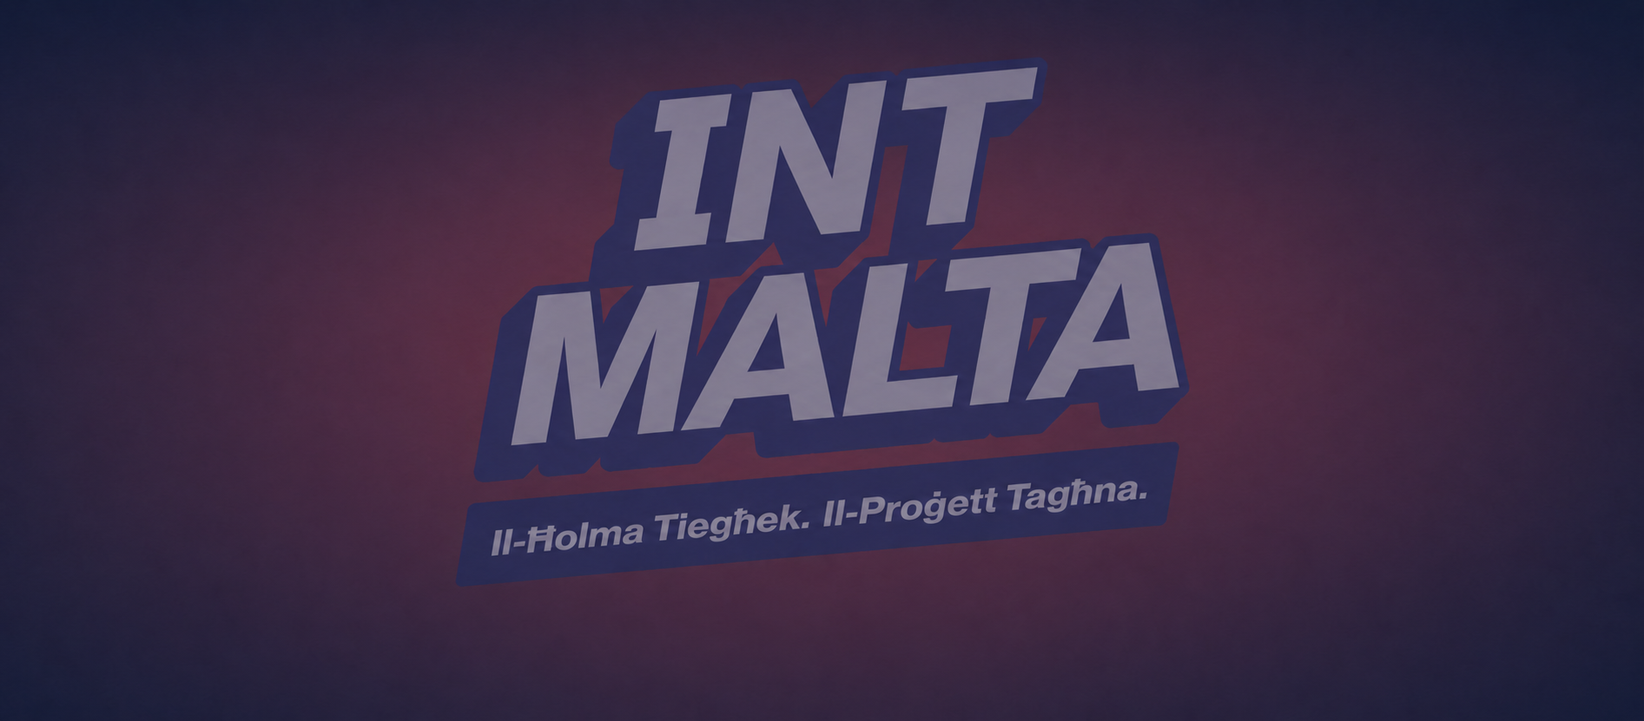
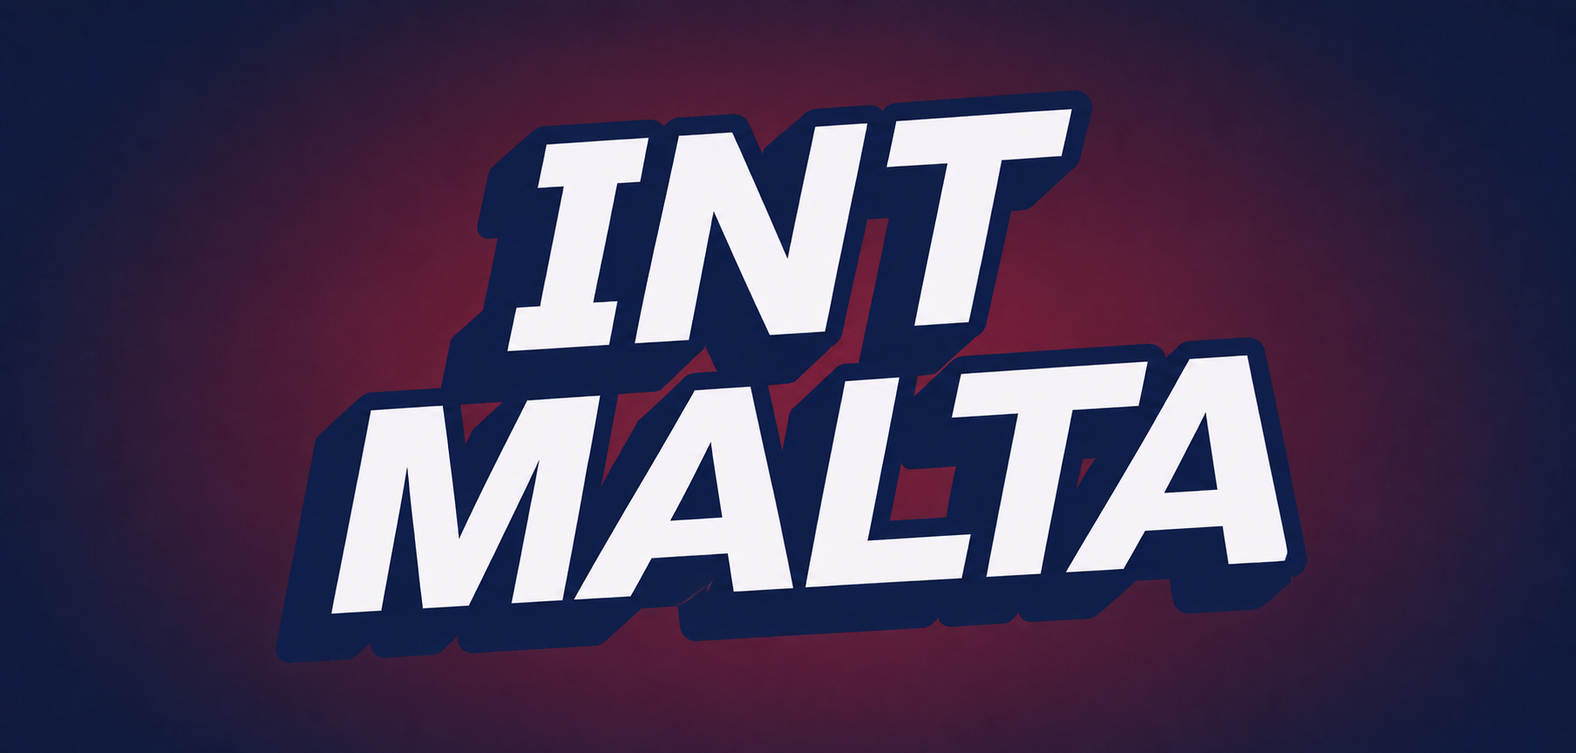
Add files via upload

diff --git a/index.html b/index.html
@@ -3,6 +3,9 @@
 <head>
 <meta charset="utf-8">
 <meta name="viewport" content="width=device-width,initial-scale=1,viewport-fit=cover">
+<meta http-equiv="Cache-Control" content="no-cache, no-store, must-revalidate">
+<meta http-equiv="Pragma" content="no-cache">
+<meta http-equiv="Expires" content="0">
 <meta name="theme-color" content="#0b2942">
 <meta name="apple-mobile-web-app-capable" content="yes">
 <meta name="apple-mobile-web-app-status-bar-style" content="black-translucent">
@@ -29,12 +32,13 @@ body.dark{--line:#29445b;--muted:#9fb3c5;--text:#e8f2fa;--shadow:0 14px 36px rgb
 .noReplacementOption{display:flex;align-items:center;gap:10px;text-transform:none;letter-spacing:0;font-size:14px;color:var(--text);padding:11px 12px;border:1px solid var(--line);border-radius:12px;background:#f6fafc;margin-top:10px}.noReplacementOption input{width:20px;height:20px;margin:0;flex:0 0 20px}.noReplacementHint{font-size:12px;color:var(--muted);line-height:1.35;margin-top:4px}body.dark .noReplacementOption{background:#0b263a}
 .adminSettingsBtn{width:44px;height:44px;padding:0;border:0;border-radius:15px;background:rgba(255,255,255,.14);color:white;box-shadow:none;font-size:20px}.statusGrid{display:grid;grid-template-columns:repeat(2,1fr);gap:8px}.statusCard{padding:11px;border:1px solid var(--line);border-radius:13px;background:#f6fafc}.statusCard b{display:block;font-size:16px;margin-top:3px}.previewList{max-height:360px;overflow:auto;border:1px solid var(--line);border-radius:14px;margin-top:10px}.previewRow{display:grid;grid-template-columns:92px 1fr;gap:8px;padding:10px;border-top:1px solid var(--line);font-size:12px;line-height:1.4}.previewRow:first-child{border-top:0}.verified{color:#207343;font-weight:900}.advancedBox{margin-top:12px}.advancedBox summary{font-weight:900;cursor:pointer}body.dark .statusCard{background:#0b263a}@media(max-width:520px){.statusGrid{grid-template-columns:1fr}.previewRow{grid-template-columns:82px 1fr}}
 .adminHeader{margin-bottom:8px}.adminTabs{display:flex;gap:6px;overflow-x:auto;padding:5px;margin:0 0 10px;background:rgba(234,244,251,.94);border:1px solid var(--line);border-radius:15px;scrollbar-width:none}.adminTabs::-webkit-scrollbar{display:none}.adminTabs button{flex:1 0 auto;min-width:88px;padding:10px 12px;box-shadow:none;border:0;background:transparent;color:var(--muted);white-space:nowrap}.adminTabs button.active{background:white;color:var(--blue);box-shadow:0 3px 10px rgba(15,45,74,.10)}.adminPane>.panel:first-child{margin-top:8px}.adminQuickGrid,.quickRanges{display:grid;grid-template-columns:repeat(2,1fr);gap:8px;margin-top:10px}.adminQuickGrid button,.quickRanges button{box-shadow:none}.quickRanges{grid-template-columns:repeat(3,1fr)}.adminSectionIntro{display:flex;align-items:flex-start;gap:11px;margin-bottom:12px}.adminSectionIcon{width:40px;height:40px;flex:0 0 40px;border-radius:12px;display:grid;place-items:center;background:#eaf2ff;color:var(--blue);font-size:20px}.adminSectionIntro h2{margin:0 0 3px}.adminSectionIntro p{margin:0}.adminSummary{margin:10px 0;background:#f6fafc}.adminSummary b{display:block;margin-bottom:3px}.adminMeta{display:flex;flex-wrap:wrap;gap:6px;margin-top:9px}.adminMeta span{padding:6px 9px;border-radius:999px;background:#eaf2ff;color:#0e5a99;font-size:12px;font-weight:850}.accountSummary{display:flex;justify-content:space-between;gap:10px;align-items:center;padding:10px 0;border-bottom:1px solid var(--line);margin-bottom:4px}.dataAction{display:grid;grid-template-columns:1fr 1fr;gap:8px}.fieldHelp{font-size:12px;color:var(--muted);line-height:1.4;margin:5px 0 9px}.currentTeam{display:flex;flex-wrap:wrap;gap:6px;margin-top:8px}.currentTeam span{background:#eef6ff;color:#0e5a99;border-radius:999px;padding:6px 9px;font-size:12px;font-weight:850}body.dark .adminTabs{background:rgba(7,23,37,.94)}body.dark .adminTabs button.active{background:#163d5b;color:#9fd1ff}body.dark .adminSectionIcon{background:#163d5b;color:#9fd1ff}body.dark .adminSummary{background:#0b263a}body.dark .adminMeta span,body.dark .currentTeam span{background:#163d5b;color:#9fd1ff}@media(max-width:520px){.adminQuickGrid,.dataAction{grid-template-columns:1fr}.quickRanges{grid-template-columns:repeat(3,minmax(0,1fr))}.quickRanges button{padding:10px 4px;font-size:12px}}
-header{isolation:isolate;overflow:hidden;padding:calc(12px + env(safe-area-inset-top)) 14px 13px;border-bottom-left-radius:22px;border-bottom-right-radius:22px;transition:padding .22s ease,border-radius .22s ease,box-shadow .22s ease}header::before{content:"";position:absolute;inset:0;z-index:-2;background:url('header-background.png') center 43%/cover no-repeat;opacity:.92}header::after{content:"";position:absolute;inset:0;z-index:-1;background:linear-gradient(90deg,rgba(4,18,31,.93) 0%,rgba(7,28,46,.72) 52%,rgba(26,12,35,.63) 100%)}.head{align-items:flex-start}.headerIdentity{min-width:0}.headerBrand{display:flex;align-items:center;gap:10px}.headerBrandMark{width:39px;height:39px;flex:0 0 39px;border-radius:12px;display:grid;place-items:center;background:linear-gradient(135deg,#25c8c5,#1688a4);color:white;font-size:23px;font-weight:950;box-shadow:0 8px 18px rgba(0,0,0,.22)}.headerTitle{font-size:22px;line-height:1.03;text-shadow:0 2px 10px rgba(0,0,0,.28)}.compactTitle{display:none}.motto{margin:5px 0 0;font-size:12.5px;max-width:360px;text-shadow:0 2px 9px rgba(0,0,0,.32)}.headerChips{display:flex;align-items:center;gap:6px;margin-top:10px;overflow-x:auto;scrollbar-width:none}.headerChips::-webkit-scrollbar{display:none}.headerChip{display:inline-flex;align-items:center;gap:6px;white-space:nowrap;padding:7px 9px;border:1px solid rgba(255,255,255,.22);border-radius:10px;background:rgba(255,255,255,.11);color:#f5fbff;font-size:11.5px;font-weight:900;backdrop-filter:blur(8px)}.headerChip.mode5{background:rgba(200,70,70,.25)}.headerChip.mode6{background:rgba(25,118,201,.24)}.headerChip.mode7{background:rgba(67,166,107,.24)}.headerLiveDot{width:7px;height:7px;border-radius:50%;background:#6ee7a0;box-shadow:0 0 0 3px rgba(110,231,160,.17)}.headerLiveChip.saving .headerLiveDot{background:var(--amber)}.headerLiveChip.offline .headerLiveDot,.headerLiveChip.error .headerLiveDot{background:#ff7474}.headActions{gap:6px}.headActions button,.adminSettingsBtn,.accountBtn,.share{width:39px;height:39px;border-radius:12px;padding:0;display:inline-grid;place-items:center;box-shadow:none}.headActions svg{width:19px;height:19px;fill:none;stroke:currentColor;stroke-width:2;stroke-linecap:round;stroke-linejoin:round}.accountInitial{width:25px;height:25px;border-radius:9px;display:grid;place-items:center;background:rgba(255,255,255,.14);font-size:13px;font-weight:950}.installBtn{min-width:39px}.installBtn span{display:none}.headerCompact{padding:calc(7px + env(safe-area-inset-top)) 11px 7px;border-bottom-left-radius:16px;border-bottom-right-radius:16px;box-shadow:0 9px 24px rgba(6,26,44,.32)}.headerCompact::before{background-position:center 35%;opacity:.78}.headerCompact .headerBrandMark,.headerCompact .motto,.headerCompact .headerModeChip,.headerCompact .headerLiveChip,.headerCompact .installBtn{display:none!important}.headerCompact .fullTitle{display:none}.headerCompact .compactTitle{display:inline}.headerCompact .headerTitle{font-size:16px;white-space:nowrap}.headerCompact .headerChips{margin-top:4px}.headerCompact .headerChip{padding:4px 7px;font-size:10.5px}.headerCompact .head{align-items:center}.headerCompact .headActions button{width:34px;height:34px;border-radius:10px}.headerCompact .headActions svg{width:17px;height:17px}@media(max-width:430px){.headerBrandMark{width:36px;height:36px;flex-basis:36px;font-size:21px}.headerTitle{font-size:20px}.motto{font-size:12px;max-width:255px}.headActions{max-width:84px;flex-wrap:wrap;justify-content:flex-end}.headActions button,.adminSettingsBtn,.accountBtn,.share{width:37px;height:37px}.headerChips{max-width:calc(100vw - 28px)}.headerCompact .headActions{max-width:none;flex-wrap:nowrap}.headerCompact .accountBtn{display:none}.headerCompact .headerIdentity{display:flex;align-items:center;gap:7px}.headerCompact .headerChips{margin:0}.headerCompact .headerDateChip{font-size:10px}}
+header{isolation:isolate;overflow:hidden;padding:calc(12px + env(safe-area-inset-top)) 14px 13px;border-bottom-left-radius:22px;border-bottom-right-radius:22px;transition:padding .22s ease,border-radius .22s ease,box-shadow .22s ease}header::before{content:"";position:absolute;inset:0;z-index:-2;background:radial-gradient(circle at 78% 35%,rgba(125,42,83,.34),transparent 38%),linear-gradient(135deg,#071b31,#160f29);opacity:1}header::after{content:"";position:absolute;inset:0;z-index:-1;background:linear-gradient(90deg,rgba(4,18,31,.35),rgba(26,12,35,.12))}.head{align-items:flex-start}.headerIdentity{min-width:0}.headerBrand{display:flex;align-items:center;gap:10px}.headerBrandMark{width:39px;height:39px;flex:0 0 39px;border-radius:12px;display:grid;place-items:center;background:linear-gradient(135deg,#25c8c5,#1688a4);color:white;font-size:23px;font-weight:950;box-shadow:0 8px 18px rgba(0,0,0,.22)}.headerTitle{font-size:22px;line-height:1.03;text-shadow:0 2px 10px rgba(0,0,0,.28)}.compactTitle{display:none}.motto{margin:5px 0 0;font-size:12.5px;max-width:360px;text-shadow:0 2px 9px rgba(0,0,0,.32)}.campaignArt{height:86px;margin:8px 0 7px;border:1px solid rgba(255,255,255,.13);border-radius:13px;overflow:hidden;background:rgba(255,255,255,.04)}.campaignArt img{display:block;width:100%;height:100%;object-fit:contain;object-position:center;filter:brightness(1.2);opacity:.96}.headerChips{display:flex;align-items:center;flex-wrap:wrap;gap:6px;margin-top:0;overflow:visible}.headerChip{display:inline-flex;align-items:center;gap:6px;white-space:nowrap;padding:7px 9px;border:1px solid rgba(255,255,255,.22);border-radius:10px;background:rgba(255,255,255,.11);color:#f5fbff;font-size:11.5px;font-weight:900;backdrop-filter:blur(8px)}.headerChip.mode5{background:rgba(200,70,70,.25)}.headerChip.mode6{background:rgba(25,118,201,.24)}.headerChip.mode7{background:rgba(67,166,107,.24)}.headerLiveDot{width:7px;height:7px;border-radius:50%;background:#6ee7a0;box-shadow:0 0 0 3px rgba(110,231,160,.17)}.headerLiveChip.saving .headerLiveDot{background:var(--amber)}.headerLiveChip.offline .headerLiveDot,.headerLiveChip.error .headerLiveDot{background:#ff7474}.headActions{gap:6px}.headActions button,.adminSettingsBtn,.accountBtn,.share{width:39px;height:39px;border-radius:12px;padding:0;display:inline-grid;place-items:center;box-shadow:none}.headActions svg{width:19px;height:19px;fill:none;stroke:currentColor;stroke-width:2;stroke-linecap:round;stroke-linejoin:round}.accountInitial{width:25px;height:25px;border-radius:9px;display:grid;place-items:center;background:rgba(255,255,255,.14);font-size:13px;font-weight:950}.installBtn{min-width:39px}.installBtn span{display:none}.headerCompact{padding:calc(7px + env(safe-area-inset-top)) 11px 7px;border-bottom-left-radius:16px;border-bottom-right-radius:16px;box-shadow:0 9px 24px rgba(6,26,44,.32)}.headerCompact .campaignArt,.headerCompact .headerBrandMark,.headerCompact .motto,.headerCompact .headerModeChip,.headerCompact .headerLiveChip,.headerCompact .installBtn{display:none!important}.headerCompact .fullTitle{display:none}.headerCompact .compactTitle{display:inline}.headerCompact .headerTitle{font-size:16px;white-space:nowrap}.headerCompact .headerChips{margin-top:4px}.headerCompact .headerChip{padding:4px 7px;font-size:10.5px}.headerCompact .head{align-items:center}.headerCompact .headActions button{width:34px;height:34px;border-radius:10px}.headerCompact .headActions svg{width:17px;height:17px}@media(max-width:430px){.headerBrandMark{width:36px;height:36px;flex-basis:36px;font-size:21px}.headerTitle{font-size:20px}.motto{font-size:12px;max-width:255px}.headActions{max-width:84px;flex-wrap:wrap;justify-content:flex-end}.headActions button,.adminSettingsBtn,.accountBtn,.share{width:37px;height:37px}.campaignArt{height:80px}.headerChip{padding:6px 8px;font-size:10.8px}.headerCompact .headActions{max-width:none;flex-wrap:nowrap}.headerCompact .accountBtn{display:none}.headerCompact .headerIdentity{display:flex;align-items:center;gap:7px}.headerCompact .headerChips{margin:0}.headerCompact .headerDateChip{font-size:10px}}
+.campaignArt{height:auto;padding:5px 7px 7px;display:grid;gap:4px}.campaignArt img{height:76px;filter:brightness(1.12)}.campaignArt::after{content:"Il-Ħolma Tiegħek. Il-Proġett Tagħna.";display:block;padding:5px 8px;border-radius:8px;background:rgba(12,27,72,.92);color:white;text-align:center;font-size:11.5px;font-style:italic;font-weight:850;letter-spacing:.01em;line-height:1.2;white-space:nowrap}@media(max-width:430px){.campaignArt img{height:68px}.campaignArt::after{font-size:10.5px;padding:5px 4px}}
 </style>
 </head>
 <body class="authPending">
 <section id="authGate" class="authGate"><div class="authCard"><div class="authBrand"><div class="authMark">✚</div><div><h2>Anaesthetic Night Roster</h2><p class="time">Shift members only</p></div></div><div class="authSwitch"><button type="button" class="active" id="loginTab">Sign in</button><button type="button" id="signupTab">Create account</button></div><label>Email<input id="authEmail" type="email" inputmode="email" autocomplete="email" placeholder="name@gov.mt"></label><label>Password<input id="authPassword" type="password" autocomplete="current-password" minlength="6" placeholder="At least 6 characters"></label><button class="primary wide" id="authSubmitBtn">Sign in</button><button class="soft wide hidden" id="forgotPasswordBtn">Forgot password</button><div id="authMessage" class="authMessage" role="status" aria-live="polite"></div></div></section>
-<header id="appHeader"><div class="head"><div class="headerIdentity"><div class="headerBrand"><div class="headerBrandMark" aria-hidden="true">✚</div><h1 class="headerTitle"><span class="fullTitle">Anaesthetic Night Roster</span><span class="compactTitle">Night Roster</span></h1></div><p class="motto">Fair by design. Flexible under pressure. Safe in practice.</p><div class="headerChips" aria-label="Selected roster summary"><span id="headerDateChip" class="headerChip headerDateChip"></span><span id="headerModeChip" class="headerChip headerModeChip"></span><span id="headerLiveChip" class="headerChip headerLiveChip"><span class="headerLiveDot"></span><span id="headerLiveText">Connecting</span></span></div></div><div class="headActions"><button class="installBtn hidden" id="installBtn" type="button" aria-label="Install app"><svg viewBox="0 0 24 24" aria-hidden="true"><path d="M12 3v12"></path><path d="m7 10 5 5 5-5"></path><path d="M5 21h14a2 2 0 0 0 2-2v-3"></path><path d="M3 16v3a2 2 0 0 0 2 2"></path></svg><span>Install</span></button><button class="adminSettingsBtn hidden" id="adminSettingsBtn" type="button" aria-label="Roster management"><svg viewBox="0 0 24 24" aria-hidden="true"><circle cx="12" cy="12" r="3"></circle><path d="M19.4 15a1.7 1.7 0 0 0 .3 1.9l.1.1-2.8 2.8-.1-.1a1.7 1.7 0 0 0-1.9-.3 1.7 1.7 0 0 0-1 1.6v.2h-4V21a1.7 1.7 0 0 0-1-1.6 1.7 1.7 0 0 0-1.9.3l-.1.1L4.2 17l.1-.1a1.7 1.7 0 0 0 .3-1.9A1.7 1.7 0 0 0 3 14H2.8v-4H3a1.7 1.7 0 0 0 1.6-1 1.7 1.7 0 0 0-.3-1.9L4.2 7 7 4.2l.1.1A1.7 1.7 0 0 0 9 4.6a1.7 1.7 0 0 0 1-1.6v-.2h4V3a1.7 1.7 0 0 0 1 1.6 1.7 1.7 0 0 0 1.9-.3l.1-.1L19.8 7l-.1.1a1.7 1.7 0 0 0-.3 1.9 1.7 1.7 0 0 0 1.6 1h.2v4H21a1.7 1.7 0 0 0-1.6 1z"></path></svg></button><button class="accountBtn" id="accountBtn" type="button" aria-label="Account and sign out"><span id="accountInitial" class="accountInitial">●</span></button><button class="share" id="themeBtn" type="button" aria-label="Use dark mode"><svg viewBox="0 0 24 24" aria-hidden="true"><path d="M20.5 14.2A8.5 8.5 0 0 1 9.8 3.5 8.5 8.5 0 1 0 20.5 14.2z"></path></svg></button></div></div></header>
+<header id="appHeader"><div class="head"><div class="headerIdentity"><div class="headerBrand"><div class="headerBrandMark" aria-hidden="true">✚</div><h1 class="headerTitle"><span class="fullTitle">Anaesthetic Night Roster</span><span class="compactTitle">Night Roster</span></h1></div><p class="motto">Fair by design. Flexible under pressure. Safe in practice.</p></div><div class="headActions"><button class="installBtn hidden" id="installBtn" type="button" aria-label="Install app"><svg viewBox="0 0 24 24" aria-hidden="true"><path d="M12 3v12"></path><path d="m7 10 5 5 5-5"></path><path d="M5 21h14a2 2 0 0 0 2-2v-3"></path><path d="M3 16v3a2 2 0 0 0 2 2"></path></svg><span>Install</span></button><button class="adminSettingsBtn hidden" id="adminSettingsBtn" type="button" aria-label="Roster management"><svg viewBox="0 0 24 24" aria-hidden="true"><circle cx="12" cy="12" r="3"></circle><path d="M19.4 15a1.7 1.7 0 0 0 .3 1.9l.1.1-2.8 2.8-.1-.1a1.7 1.7 0 0 0-1.9-.3 1.7 1.7 0 0 0-1 1.6v.2h-4V21a1.7 1.7 0 0 0-1-1.6 1.7 1.7 0 0 0-1.9.3l-.1.1L4.2 17l.1-.1a1.7 1.7 0 0 0 .3-1.9A1.7 1.7 0 0 0 3 14H2.8v-4H3a1.7 1.7 0 0 0 1.6-1 1.7 1.7 0 0 0-.3-1.9L4.2 7 7 4.2l.1.1A1.7 1.7 0 0 0 9 4.6a1.7 1.7 0 0 0 1-1.6v-.2h4V3a1.7 1.7 0 0 0 1 1.6 1.7 1.7 0 0 0 1.9-.3l.1-.1L19.8 7l-.1.1a1.7 1.7 0 0 0-.3 1.9 1.7 1.7 0 0 0 1.6 1h.2v4H21a1.7 1.7 0 0 0-1.6 1z"></path></svg></button><button class="accountBtn" id="accountBtn" type="button" aria-label="Account and sign out"><span id="accountInitial" class="accountInitial">●</span></button><button class="share" id="themeBtn" type="button" aria-label="Use dark mode"><svg viewBox="0 0 24 24" aria-hidden="true"><path d="M20.5 14.2A8.5 8.5 0 0 1 9.8 3.5 8.5 8.5 0 1 0 20.5 14.2z"></path></svg></button></div></div><div class="campaignArt"><img src="header-background.png" alt="INT MALTA. Il-Holma Tiegħek. Il-Proġett Tagħna."></div><div class="headerChips" aria-label="Selected roster summary"><span id="headerDateChip" class="headerChip headerDateChip"></span><span id="headerModeChip" class="headerChip headerModeChip"></span><span id="headerLiveChip" class="headerChip headerLiveChip"><span class="headerLiveDot"></span><span id="headerLiveText">Connecting</span></span></div></header>
 <main>
 <section id="today" class="view"><div class="panel"><h2>Selected night</h2><div class="grid2"><label>Night<div class="dateNav"><button type="button" id="prevNightBtn" aria-label="Previous roster night">‹</button><input id="datePick" type="date" aria-label="Choose a date to open that night or the next rostered night"><button type="button" id="nextNightBtn" aria-label="Next roster night">›</button></div></label><label>Mode<select id="mode"><option value="5">5 nurses</option><option value="6">6 nurses</option><option value="7">7 nurses</option></select></label></div><label class="myNameLabel">I am<select id="myNamePick" aria-label="Choose your name to highlight"><option value="">Select your name</option></select></label><div id="alerts"></div><div id="roles" class="roles"></div><div id="fiveArrangement"></div></div><div class="panel changePanel"><div class="ctop"><div><h2>Tonight's changes</h2><div class="time">Record an absence with or without a replacement</div></div><div class="liveStatus" id="syncStatus"><span class="liveDot"></span><span id="syncText">Connecting</span></div></div><div class="changeGrid"><label>Unavailable nurse<select id="absentName"></select></label><label>Replacement nurse<input id="replacementName" type="text" autocomplete="off" autocapitalize="words" placeholder="Type the replacement's name"></label></div><label class="noReplacementOption"><input id="noReplacement" type="checkbox"><span>No replacement nurse<div class="noReplacementHint">For a six-nurse night, the app will calculate the five-nurse arrangement automatically.</div></span></label><label>Reason<select id="changeReason"><option>Leave</option><option>Sick</option><option>Other absence</option><option>Operational change</option></select></label><button class="primary wide" id="saveChangeBtn">Save change</button><div id="changeList" class="changeList"></div><details class="historyBox"><summary>Change history</summary><div id="changeHistory"></div></details></div><div class="panel actionPanel noPrint"><button class="primary wide emailRosterBtn"><svg viewBox="0 0 24 24" aria-hidden="true"><rect x="3" y="5" width="18" height="14" rx="2"></rect><path d="m4 7 8 6 8-6"></path></svg><span>Email roster and breaks</span></button></div></section>
 <section id="roster" class="view hidden"><div class="toolbar"><input id="search" aria-label="Search roster by name or date" placeholder="Search name/date..."><select id="filter" aria-label="Filter by staffing mode"><option value="all">All</option><option value="5">5</option><option value="6">6</option><option value="7">7</option></select></div><div id="range" class="notice"></div><div id="cards" class="cards"></div></section>
@@ -49,6 +53,7 @@ var EMAIL_RECIPIENTS = ["shaun.galea.1@gov.mt", "michael.b.galea@gov.mt", "micha
 var SUPABASE_URL = 'https://voaygfleqceqacvqixxp.supabase.co';
 var SUPABASE_KEY = 'sb_publishable_48wg5ZJVSDakxO-95B0DLQ_0b2nNVB8';
 var APP_URL = 'https://wiggli.github.io/Anaesthetic-roster/';
+var APP_VERSION = '15';
 var supa = window.supabase ? window.supabase.createClient(SUPABASE_URL,SUPABASE_KEY) : null;
 var currentUser = null;
 var currentUserProfile = null;
@@ -115,7 +120,7 @@ function renderRoster(){var q=(byId('search').value||'').toLowerCase(),f=byId('f
 function selectOptions(list,current){var a=list.slice();if(current&&a.indexOf(current)<0)a.push(current);return a.map(function(n){return '<option value="'+esc(n)+'"'+(n===current?' selected':'')+'>'+esc(n)+'</option>'}).join('')}
 function rosterFingerprint(rows){var text=rows.map(function(r){return[r.date,r.first1,r.first2,r.second1,r.second2,r.pager,r.reliever,r.seventh].join('|')}).join('\n'),hash=2166136261;for(var i=0;i<text.length;i++){hash^=text.charCodeAt(i);hash=Math.imul(hash,16777619)}return(hash>>>0).toString(16).padStart(8,'0')}
 function verifyReference(){var rows=[],date=ORIGINAL_REFERENCE.first;for(var i=0;i<ORIGINAL_REFERENCE.nights;i++){rows.push(calculateNight(date,[rotationVersions[0]]));date=addDays(date,4)}var hash=rosterFingerprint(rows),valid=rows[rows.length-1].date===ORIGINAL_REFERENCE.last&&hash===ORIGINAL_REFERENCE.hash;return{checked:rows.length,transitions:Math.max(0,rows.length-1),mismatches:valid?0:1,hash:hash}}
-function renderAdmin(){if(!currentUserProfile||currentUserProfile.user_role!=='admin')return;var r=cur(),check=verifyReference(),lastVersion=rotationVersions[rotationVersions.length-1],start=addDays(rosterSettings.published_until,4),extend=byId('extendDate');byId('rosterStatus').innerHTML='<div class="statusCard"><span class="time">Published until</span><b>'+esc(fmt(rosterSettings.published_until))+'</b></div><div class="statusCard"><span class="time">Published nights</span><b>'+R.length+'</b></div><div class="statusCard"><span class="time">Authorised members</span><b>'+authorisedAccounts.filter(function(a){return a.active}).length+'</b></div><div class="statusCard"><span class="time">Rotation check</span><b class="'+(check.mismatches?'':'verified')+'">'+(check.mismatches?check.mismatches+' mismatch':'Verified')+'</b></div>';byId('adminOverviewSummary').innerHTML='<b>Next unpublished roster night: '+esc(fmt(start))+'</b><div class="time">Last published by '+esc(rosterSettings.updated_by||'Administrator')+(rosterSettings.updated_at?' on '+esc(shortTime(rosterSettings.updated_at)):'')+'. The original 138-night reference remains '+(check.mismatches?'unverified':'verified')+'.</div>';byId('publishCurrentSummary').innerHTML='<b>Currently visible until '+esc(fmt(rosterSettings.published_until))+'</b><div class="time">The next extension will begin on '+esc(fmt(start))+'. Nothing already published will be removed or recalculated.</div>';extend.min=start;if(!extend.value||extend.value<start)extend.value=snapRosterDate(addMonths(rosterSettings.published_until,6));updateExtensionSummary();var selectedVersion=versionForDate(r.date),leaving=[selectedVersion.first1,selectedVersion.first2,selectedVersion.second1,selectedVersion.second2,selectedVersion.pager,selectedVersion.reliever];if(document.activeElement!==byId('replaceStaffName'))byId('replaceStaffName').innerHTML=selectOptions(leaving,byId('replaceStaffName').value||leaving[0]);if(document.activeElement!==byId('teamEffectiveDate'))byId('teamEffectiveDate').value=r.date;byId('teamEffectiveDate').min=R[0].date;byId('teamEffectiveDate').max=R[R.length-1].date;byId('teamEffectiveSummary').innerHTML='<b>Permanent change will begin on '+esc(fmt(r.date))+'.</b><div class="time">The selected night and every later roster will use the new nurse, while all earlier nights remain unchanged.</div>';byId('currentTeamSummary').innerHTML='<b>Latest permanent team</b><div class="currentTeam">'+[lastVersion.first1,lastVersion.first2,lastVersion.second1,lastVersion.second2,lastVersion.pager,lastVersion.reliever].map(function(n){return '<span>'+esc(n)+'</span>'}).join('')+'</div>';byId('teamPrevNightBtn').disabled=idx<=0;byId('teamNextNightBtn').disabled=idx>=R.length-1;byId('extendPrevNightBtn').disabled=extend.value<=start;byId('rotationVersionList').innerHTML=rotationVersions.map(function(v,i){return '<div class="historyItem"><b>'+(i===0?'Original verified rotation':'Effective from '+esc(fmt(v.effective_from)))+'</b><div class="changeMeta">'+esc(v.notes||(i===0?'Original six-nurse team':'Permanent team change'))+'</div>'+(i?'<div class="changeMeta">Earlier roster nights were preserved.</div>':'')+'</div>'}).join('');switchAdminTab(activeAdminTab,false);renderAccounts()}
+function renderAdmin(){if(!currentUserProfile||currentUserProfile.user_role!=='admin')return;var r=cur(),check=verifyReference(),lastVersion=rotationVersions[rotationVersions.length-1],start=addDays(rosterSettings.published_until,4),extend=byId('extendDate');byId('rosterStatus').innerHTML='<div class="statusCard"><span class="time">Published until</span><b>'+esc(fmt(rosterSettings.published_until))+'</b></div><div class="statusCard"><span class="time">Published nights</span><b>'+R.length+'</b></div><div class="statusCard"><span class="time">Authorised members</span><b>'+authorisedAccounts.filter(function(a){return a.active}).length+'</b></div><div class="statusCard"><span class="time">Rotation check</span><b class="'+(check.mismatches?'':'verified')+'">'+(check.mismatches?check.mismatches+' mismatch':'Verified')+'</b></div>';byId('adminOverviewSummary').innerHTML='<b>Next unpublished roster night: '+esc(fmt(start))+'</b><div class="time">Last published by '+esc(rosterSettings.updated_by||'Administrator')+(rosterSettings.updated_at?' on '+esc(shortTime(rosterSettings.updated_at)):'')+'. The original 138-night reference remains '+(check.mismatches?'unverified':'verified')+'. App version '+esc(APP_VERSION)+'.</div>';byId('publishCurrentSummary').innerHTML='<b>Currently visible until '+esc(fmt(rosterSettings.published_until))+'</b><div class="time">The next extension will begin on '+esc(fmt(start))+'. Nothing already published will be removed or recalculated.</div>';extend.min=start;if(!extend.value||extend.value<start)extend.value=snapRosterDate(addMonths(rosterSettings.published_until,6));updateExtensionSummary();var selectedVersion=versionForDate(r.date),leaving=[selectedVersion.first1,selectedVersion.first2,selectedVersion.second1,selectedVersion.second2,selectedVersion.pager,selectedVersion.reliever];if(document.activeElement!==byId('replaceStaffName'))byId('replaceStaffName').innerHTML=selectOptions(leaving,byId('replaceStaffName').value||leaving[0]);if(document.activeElement!==byId('teamEffectiveDate'))byId('teamEffectiveDate').value=r.date;byId('teamEffectiveDate').min=R[0].date;byId('teamEffectiveDate').max=R[R.length-1].date;byId('teamEffectiveSummary').innerHTML='<b>Permanent change will begin on '+esc(fmt(r.date))+'.</b><div class="time">The selected night and every later roster will use the new nurse, while all earlier nights remain unchanged.</div>';byId('currentTeamSummary').innerHTML='<b>Latest permanent team</b><div class="currentTeam">'+[lastVersion.first1,lastVersion.first2,lastVersion.second1,lastVersion.second2,lastVersion.pager,lastVersion.reliever].map(function(n){return '<span>'+esc(n)+'</span>'}).join('')+'</div>';byId('teamPrevNightBtn').disabled=idx<=0;byId('teamNextNightBtn').disabled=idx>=R.length-1;byId('extendPrevNightBtn').disabled=extend.value<=start;byId('rotationVersionList').innerHTML=rotationVersions.map(function(v,i){return '<div class="historyItem"><b>'+(i===0?'Original verified rotation':'Effective from '+esc(fmt(v.effective_from)))+'</b><div class="changeMeta">'+esc(v.notes||(i===0?'Original six-nurse team':'Permanent team change'))+'</div>'+(i?'<div class="changeMeta">Earlier roster nights were preserved.</div>':'')+'</div>'}).join('');switchAdminTab(activeAdminTab,false);renderAccounts()}
 async function loadAccounts(){var result=await supa.from('allowed_users').select('*').order('display_name');if(result.error){toast('Accounts could not be loaded');return}authorisedAccounts=result.data||[];renderAccounts()}
 function renderAccounts(){var el=byId('accountManager');if(!el)return;var active=authorisedAccounts.filter(function(a){return a.active}).length,inactive=authorisedAccounts.length-active;byId('accountSummary').innerHTML='<div><b>'+active+' active member'+(active===1?'':'s')+'</b><div class="time">Only active authorised emails can sign in.</div></div>'+(inactive?'<span class="pill">'+inactive+' inactive</span>':'');el.innerHTML=authorisedAccounts.map(function(a){var self=a.email.toLowerCase()===currentUser.email.toLowerCase();return '<div class="accountRow"><div><b>'+esc(a.display_name)+'</b><div class="accountRole">'+esc(a.email)+' • '+esc(a.user_role)+(a.active?'':' • Inactive')+'</div></div><button class="mini '+(a.active?'':'soft')+'" data-account-toggle="'+esc(a.email)+'" '+(self?'disabled title="Your administrator account cannot be disabled here"':'')+'>'+(a.active?'Deactivate':'Activate')+'</button></div>'}).join('');Array.prototype.forEach.call(el.querySelectorAll('[data-account-toggle]'),function(b){b.onclick=function(){toggleAuthorisedAccount(b.getAttribute('data-account-toggle'))}})}
 async function addAuthorisedAccount(){var name=byId('accountName').value.trim(),email=byId('accountEmail').value.trim().toLowerCase();if(!name||!/^\S+@\S+\.\S+$/.test(email)){toast('Enter a valid name and email');return}var result=await supa.from('allowed_users').upsert({email:email,display_name:name,user_role:'member',active:true},{onConflict:'email'});if(result.error){toast('Account could not be added');return}byId('accountName').value='';byId('accountEmail').value='';await loadAccounts();toast(name+' can now create an account')}
@@ -145,7 +150,7 @@ async function confirmTeamChange(){if(!pendingTeamVersion)return;if(!confirm('Ap
 function exportCSV(){var csv='Date,First,Second,Pager,Reliever,Full LW,7th,Mode,Notes\n'+R.map(function(original){var r=applyChanges(Object.assign({},original,sharedRoster[original.date]||{}));return [r.date,r.first1+'+'+r.first2,r.second1+'+'+r.second2,r.pager,r.reliever,r.fullLW,r.seventh,r.mode,r.notes||''].map(function(x){return '"'+String(x).replaceAll('"','""')+'"'}).join(',')}).join('\n');download('anaesthetic-roster.csv',csv,'text/csv')}
 function backup(){download('roster-backup.json',JSON.stringify({created_at:new Date().toISOString(),roster_settings:rosterSettings,rotation_versions:rotationVersions,manual_night_overrides:Object.values(sharedRoster),night_changes:nightChanges,change_history:changeHistory,authorised_accounts:authorisedAccounts},null,2),'application/json')}
 function download(n,c,t){var a=document.createElement('a');a.href=URL.createObjectURL(new Blob([c],{type:t}));a.download=n;a.click();URL.revokeObjectURL(a.href)}
-function setupPWA(){var install=byId('installBtn');window.addEventListener('beforeinstallprompt',function(e){e.preventDefault();deferredInstallPrompt=e;install.classList.remove('hidden')});install.onclick=async function(){if(deferredInstallPrompt){deferredInstallPrompt.prompt();await deferredInstallPrompt.userChoice;deferredInstallPrompt=null;install.classList.add('hidden');return}var ios=/iphone|ipad|ipod/i.test(navigator.userAgent),standalone=window.matchMedia&&window.matchMedia('(display-mode: standalone)').matches;if(ios&&!standalone)toast('On iPhone, tap Share then Add to Home Screen')};window.addEventListener('appinstalled',function(){deferredInstallPrompt=null;install.classList.add('hidden');toast('App installed')});if('serviceWorker' in navigator)window.addEventListener('load',function(){navigator.serviceWorker.register('./service-worker.js').catch(function(){})});var ios=/iphone|ipad|ipod/i.test(navigator.userAgent),standalone=window.navigator.standalone||(window.matchMedia&&window.matchMedia('(display-mode: standalone)').matches);if(ios&&!standalone)install.classList.remove('hidden')}
+function setupPWA(){var install=byId('installBtn'),registration=null;window.addEventListener('beforeinstallprompt',function(e){e.preventDefault();deferredInstallPrompt=e;install.classList.remove('hidden')});install.onclick=async function(){if(deferredInstallPrompt){deferredInstallPrompt.prompt();await deferredInstallPrompt.userChoice;deferredInstallPrompt=null;install.classList.add('hidden');return}var ios=/iphone|ipad|ipod/i.test(navigator.userAgent),standalone=window.matchMedia&&window.matchMedia('(display-mode: standalone)').matches;if(ios&&!standalone)toast('On iPhone, tap Share then Add to Home Screen')};window.addEventListener('appinstalled',function(){deferredInstallPrompt=null;install.classList.add('hidden');toast('App installed')});if('serviceWorker' in navigator){var checkForUpdate=function(){if(registration&&navigator.onLine)registration.update().catch(function(){})};window.addEventListener('load',async function(){try{registration=await navigator.serviceWorker.register('./service-worker.js',{updateViaCache:'none'});registration.addEventListener('updatefound',function(){var worker=registration.installing;if(!worker)return;worker.addEventListener('statechange',function(){if(worker.state==='installed'&&navigator.serviceWorker.controller)sessionStorage.setItem('anaes_update_ready',APP_VERSION)})});await registration.update();setInterval(checkForUpdate,900000)}catch(e){}});window.addEventListener('focus',checkForUpdate);document.addEventListener('visibilitychange',function(){if(document.visibilityState==='visible')checkForUpdate()})}if(sessionStorage.getItem('anaes_update_ready')===APP_VERSION){sessionStorage.removeItem('anaes_update_ready');setTimeout(function(){toast('App updated to the latest version')},1200)}var ios=/iphone|ipad|ipod/i.test(navigator.userAgent),standalone=window.navigator.standalone||(window.matchMedia&&window.matchMedia('(display-mode: standalone)').matches);if(ios&&!standalone)install.classList.remove('hidden')}
 function authMessage(message,error){var el=byId('authMessage');el.textContent=message||'';el.classList.toggle('error',!!error)}
 function setAuthMode(mode){authMode=mode;byId('loginTab').classList.toggle('active',mode==='login');byId('signupTab').classList.toggle('active',mode==='signup');byId('authSubmitBtn').textContent=mode==='login'?'Sign in':'Create account';byId('authPassword').setAttribute('autocomplete',mode==='login'?'current-password':'new-password');authMessage('')}
 function showAuth(message,error){document.body.classList.add('authPending');byId('authGate').classList.remove('hidden');authMessage(message,error)}

diff --git a/service-worker.js b/service-worker.js
@@ -1,4 +1,4 @@
-const CACHE_NAME = 'anaesthetic-night-roster-v12';
+const CACHE_NAME = 'anaesthetic-night-roster-v15';
 const APP_SHELL = [
   './',
   './index.html',
@@ -12,7 +12,14 @@ const APP_SHELL = [
 ];
 
 self.addEventListener('install', event => {
-  event.waitUntil(caches.open(CACHE_NAME).then(cache => cache.addAll(APP_SHELL)));
+  event.waitUntil(
+    caches.open(CACHE_NAME).then(cache => Promise.all(
+      APP_SHELL.map(url => fetch(url, { cache: 'reload' }).then(response => {
+        if (!response.ok) throw new Error(`Unable to cache ${url}`);
+        return cache.put(url, response);
+      }))
+    ))
+  );
   self.skipWaiting();
 });
 
@@ -21,13 +28,29 @@ self.addEventListener('activate', event => {
     caches.keys()
       .then(keys => Promise.all(keys.filter(key => key !== CACHE_NAME).map(key => caches.delete(key))))
       .then(() => self.clients.claim())
+      .then(() => self.clients.matchAll({ type: 'window' }))
+      .then(clients => Promise.all(clients.map(client => client.navigate(client.url))))
   );
 });
 
 self.addEventListener('fetch', event => {
   if (event.request.method !== 'GET') return;
+  if (event.request.mode === 'navigate') {
+    event.respondWith(
+      fetch(event.request, { cache: 'no-store' })
+        .then(response => {
+          if (response && response.ok) {
+            const copy = response.clone();
+            caches.open(CACHE_NAME).then(cache => cache.put('./index.html', copy));
+          }
+          return response;
+        })
+        .catch(() => caches.match('./index.html'))
+    );
+    return;
+  }
   event.respondWith(
-    fetch(event.request)
+    fetch(event.request, { cache: 'no-cache' })
       .then(response => {
         if (response && response.status === 200 && response.type !== 'opaque') {
           const copy = response.clone();
